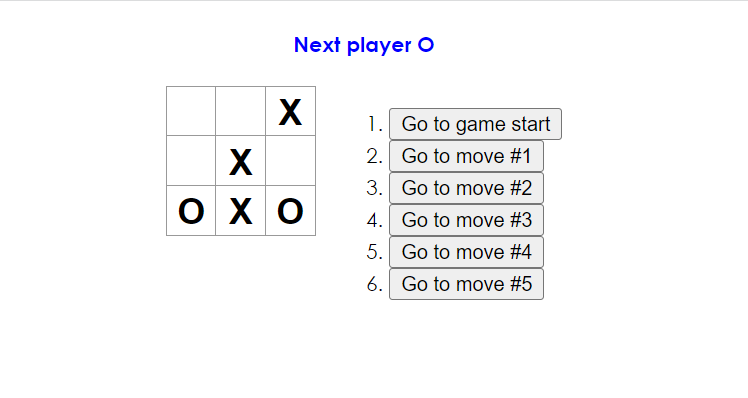
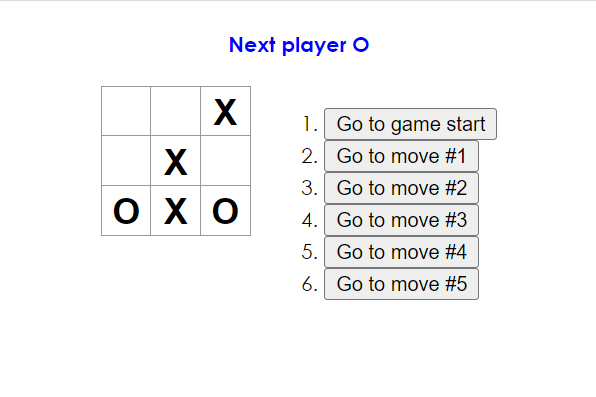
feat: resize pictures

Changed region(s): [[0.4832, 0.272, 0.8456, 0.7557], [0.1812, 0.2418, 0.4228, 0.6045], [0.3624, 0.0907, 0.6342, 0.1511]]

diff --git a/README.md b/README.md
@@ -1,8 +1,8 @@
 <p align="right">
-<a href="https://linkedin.com/in/volha-khviadchenia?target=_blank"><img align="" src="https://img.shields.io/badge/linkedin-2867B2.svg?&style=for-the-badge&logo=linkedin&logoColor=white" alt="volha-khviadchenia" height="30" /></a>
-<a href="https://fb.com/volha.khviadchenia?target=_blank"><img align="" src="https://img.shields.io/badge/facebook-4267B2?&style=for-the-badge&logo=facebook&logoColor=white" alt="volha.khviadchenia" height="30" /></a>
+<a href="https://linkedin.com/in/volha-khviadchenia"><img align="" src="https://img.shields.io/badge/linkedin-2867B2.svg?&style=for-the-badge&logo=linkedin&logoColor=white" alt="volha-khviadchenia" height="30" /></a>
+<a href="https://fb.com/volha.khviadchenia"><img align="" src="https://img.shields.io/badge/facebook-4267B2?&style=for-the-badge&logo=facebook&logoColor=white" alt="volha.khviadchenia" height="30" /></a>
 <a href="https://join.skype.com/invite/FBunP4Vq87S3"><img align="" src="https://img.shields.io/badge/skype-00AFF0?&style=for-the-badge&logo=skype&logoColor=white" alt="volha.khviadchenia" height="30" /></a>
-<a href="https://t.me/confesssa?target=_blank"><img align="" src="https://img.shields.io/badge/telegram-0088cc?&style=for-the-badge&logo=telegram&logoColor=white" alt="Volha Khviadchenia" height="30"/></a>
+<a href="https://t.me/confesssa"><img align="" src="https://img.shields.io/badge/telegram-0088cc?&style=for-the-badge&logo=telegram&logoColor=white" alt="Volha Khviadchenia" height="30"/></a>
 </p>
 <p align="right"> <img src="https://komarev.com/ghpvc/?username=confesssa&label=Profile%20views&color=0e75b6&style=flat" alt="confesssa" /> </p>
 
@@ -63,14 +63,14 @@
 
 ### React apps
 
-<table>
+<table border="0">
   <tr>
     <th>Project description</th>
     <th>Preview</th>
   </tr>
   <tr>
     <td>
-    <p style="color: red">TO DO APP</p>
+    <p style="color: red"><b>ToDo app</b></p>
       <p>
         <strong>Tools:</strong> React
       </p>
@@ -83,10 +83,10 @@
         <li>three types of filters, to display: all tasks, tasks to be performed and completed tasks;</li>
         <li>an information line that displays the number of uncompleted and completed tasks.</li>
       </ul>
-      <p>You can find the code <a href="https://github.com/confesssa/todo-list">here</a>. Deploy is <a href="https://confesssa.github.io/todo-list/?target=_blank">here</a> or you can click on the image on the right.</p>
+      <p>You can find the code <a href="https://github.com/confesssa/todo-list">here</a>. Deploy is <a href="https://confesssa.github.io/todo-list/">here</a> or you can click on the image on the right.</p>
     </td>
     <td width="40%">
-    <a href="https://confesssa.github.io/todo-list/?target=_blank">
+    <a href="https://confesssa.github.io/todo-list/">
       <img src ="./assets/todo.png">
     </a>
 </td>
@@ -109,7 +109,7 @@
       <p>You can find the code <a href="https://github.com/confesssa/tic-tac-toe">here</a>. Deploy is <a href="https://confesssa.github.io/tic-tac-toe/?target=_blank">here</a> or you can click on the image on the right.</p>
     </td>
     <td width="40%">
-    <a href="https://confesssa.github.io/tic-tac-toe/" target="_blank">
+    <a href="https://confesssa.github.io/tic-tac-toe/">
 <img src ="./assets/tic-tac-toe.png"></a>
 </td>
   </tr>
